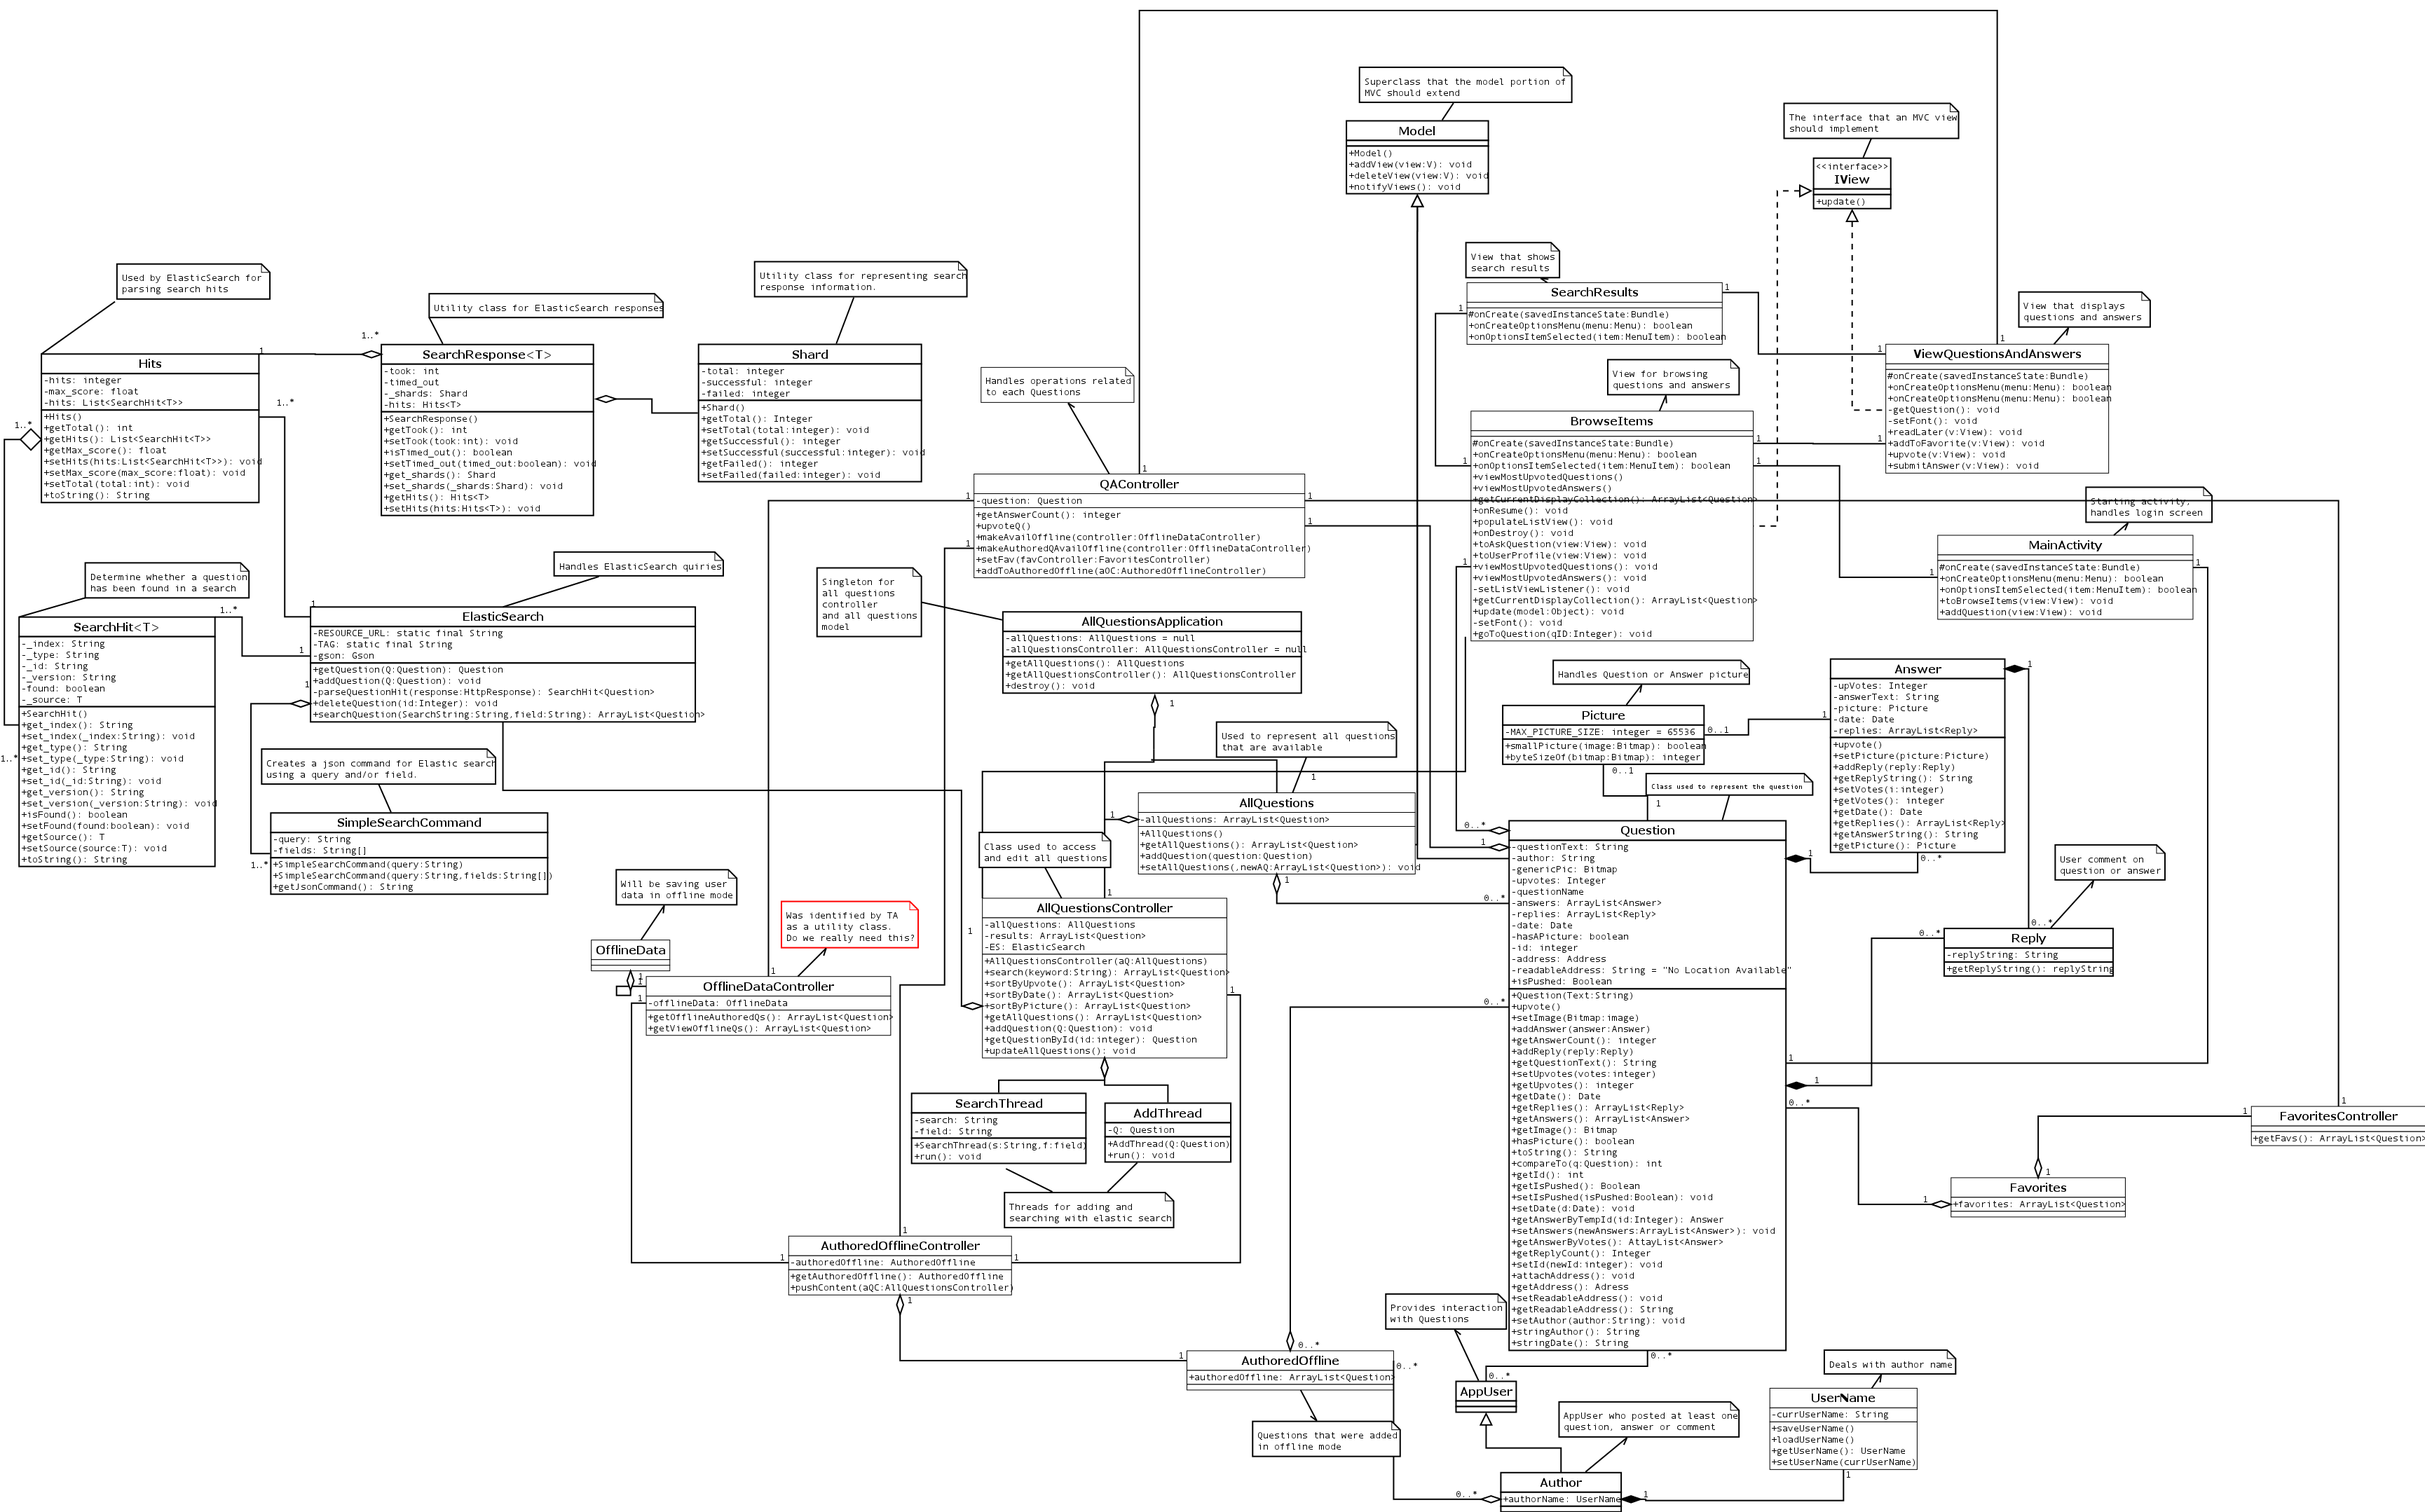
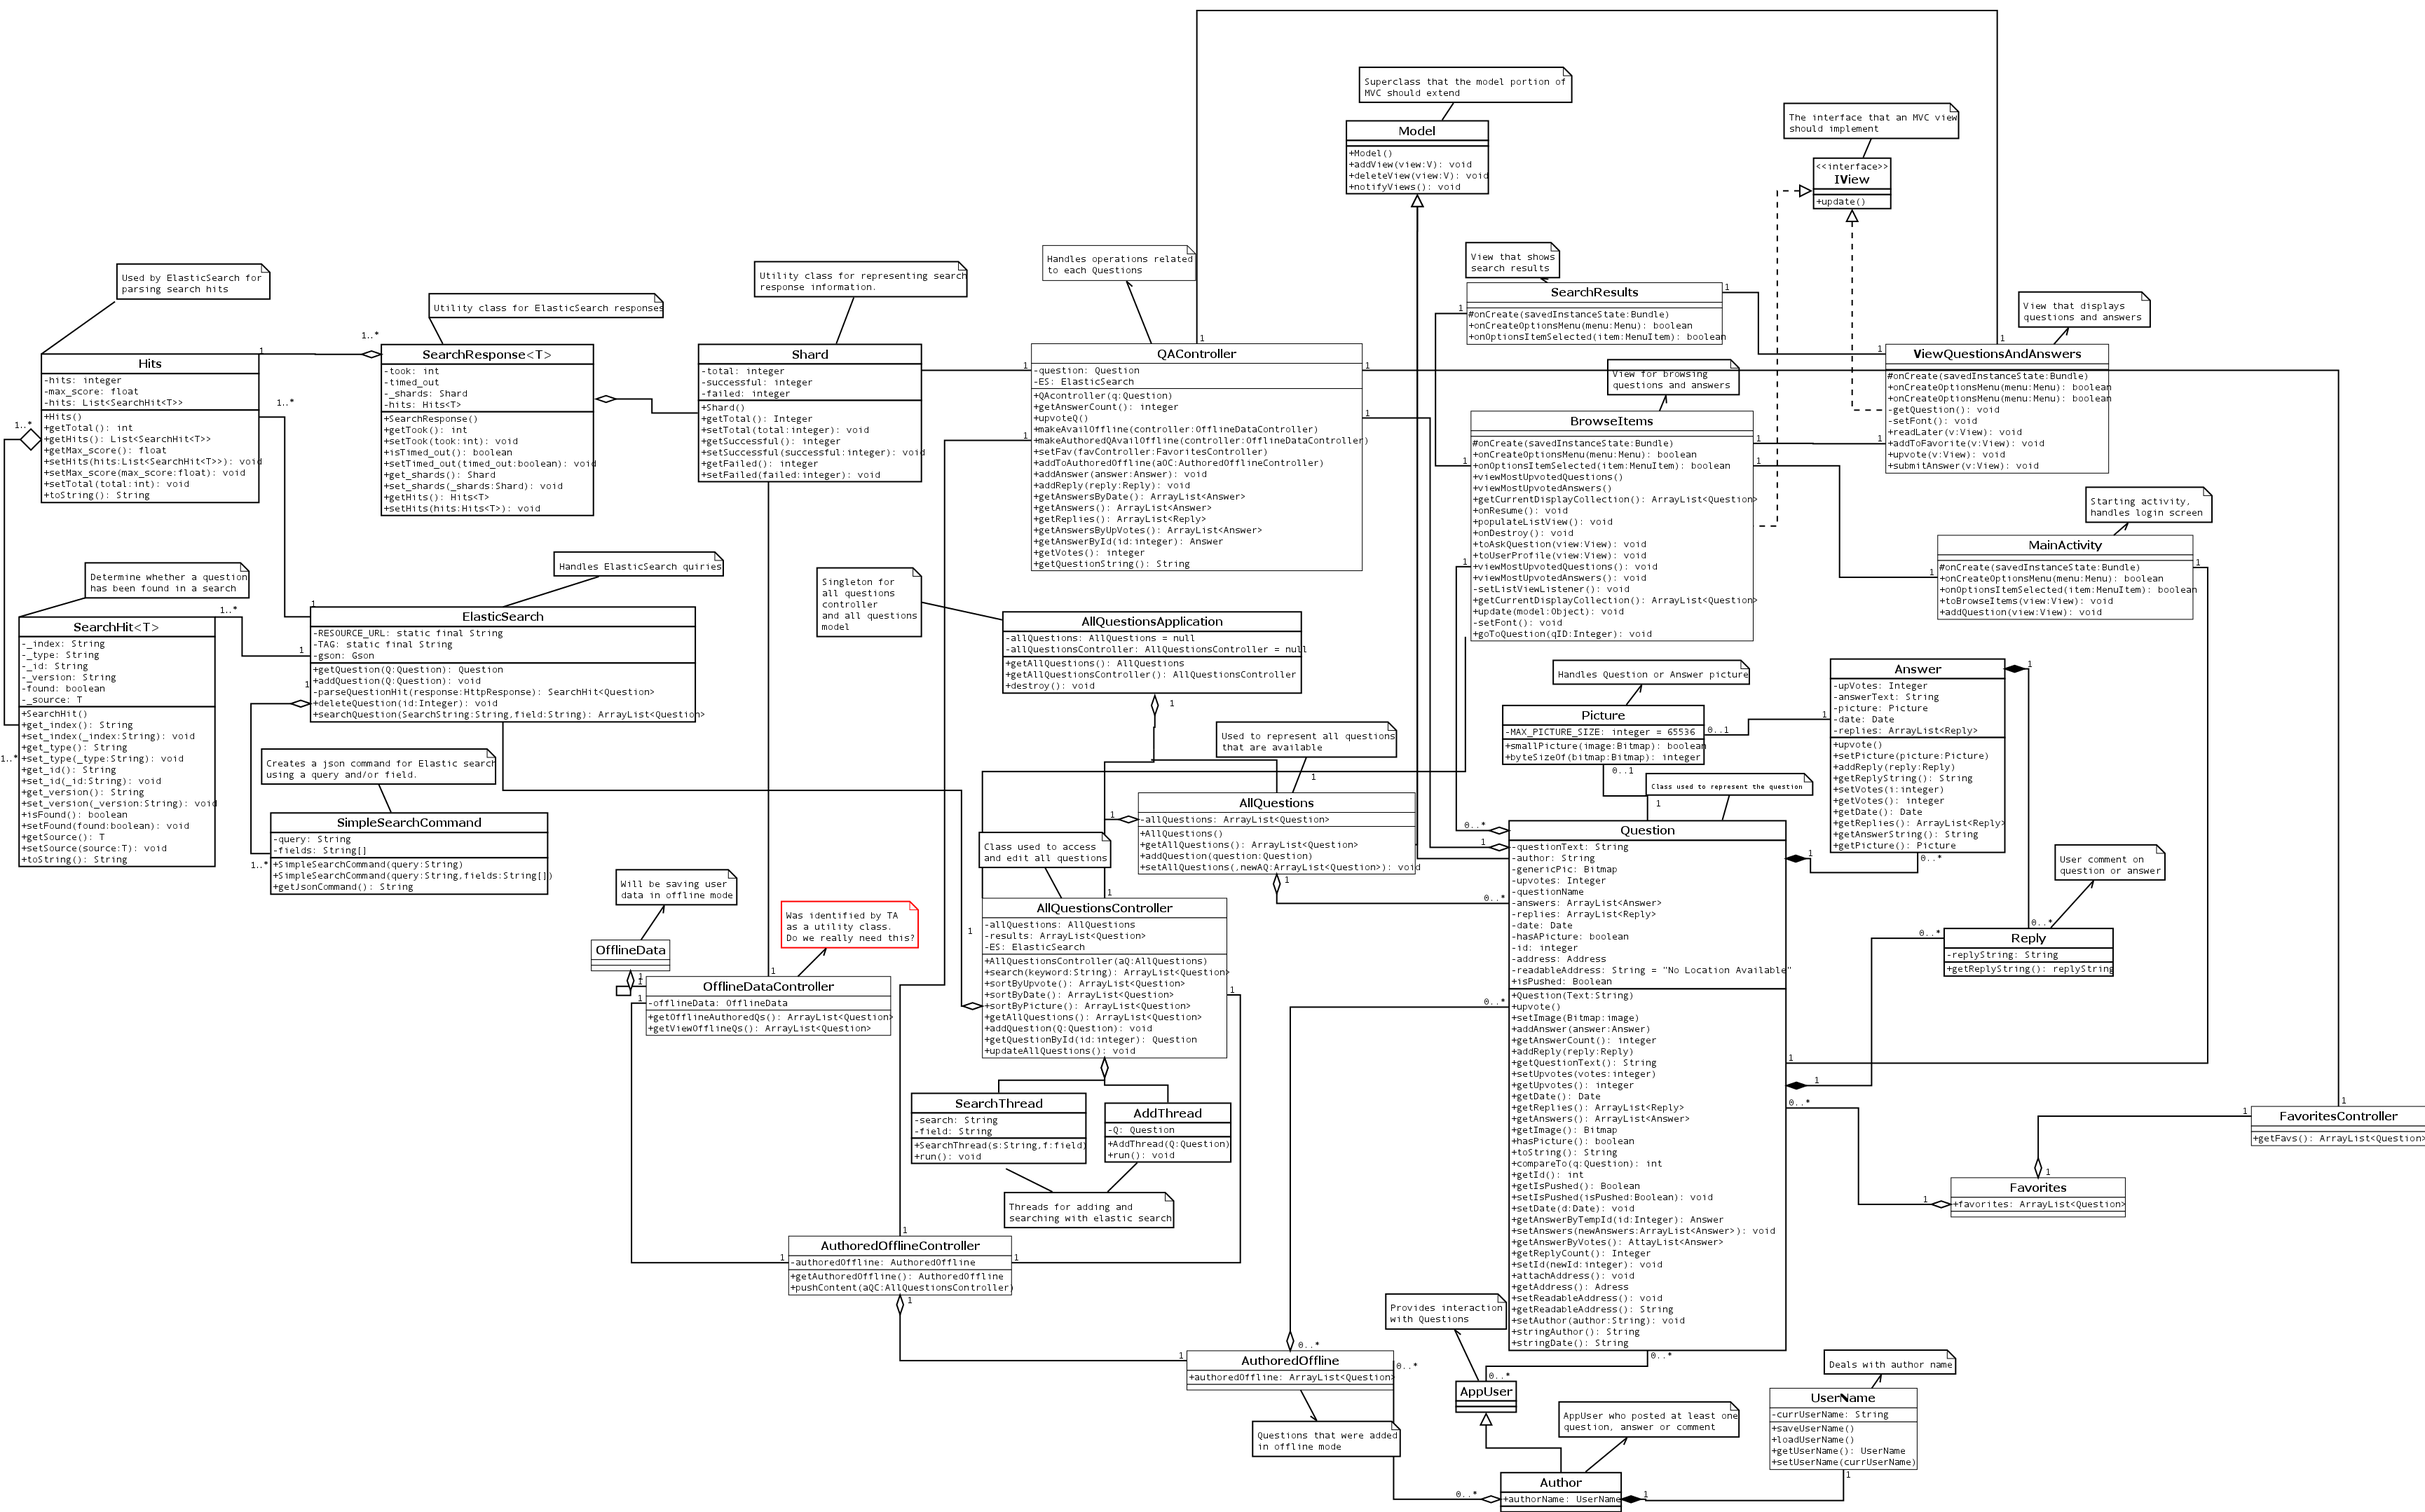
Updated UML for QAController

Changed region(s): [[0.4058, 0.2484, 0.5306, 0.3726], [0.437, 0.1552, 0.4994, 0.1863], [0.4682, 0.2173, 0.4994, 0.2484]]

diff --git a/App/src/ca/ualberta/cs/corgFuControllers/QAController.java b/App/src/ca/ualberta/cs/corgFuControllers/QAController.java
@@ -23,8 +23,8 @@ import ca.ualberta.cs.corgFuModels.Reply;
  */
 public class QAController {
 	
-	Question question;
-	ElasticSearch ES = new ElasticSearch();
+	private Question question;
+	private ElasticSearch ES = new ElasticSearch();
 	/**
 	 * Builds the controller with the question model that it will be 
 	 * modifying.	
@@ -137,12 +137,6 @@ public class QAController {
 		}
 		return null;
 	}
-	
-	/**
-	 * Makes the question available offline so it can be viewed later
-	 * @param controller The controller that will add the question to the 
-	 * list of available offline answers.
-	 */
 	
 	/**
 	 * Returns the text of the question.
